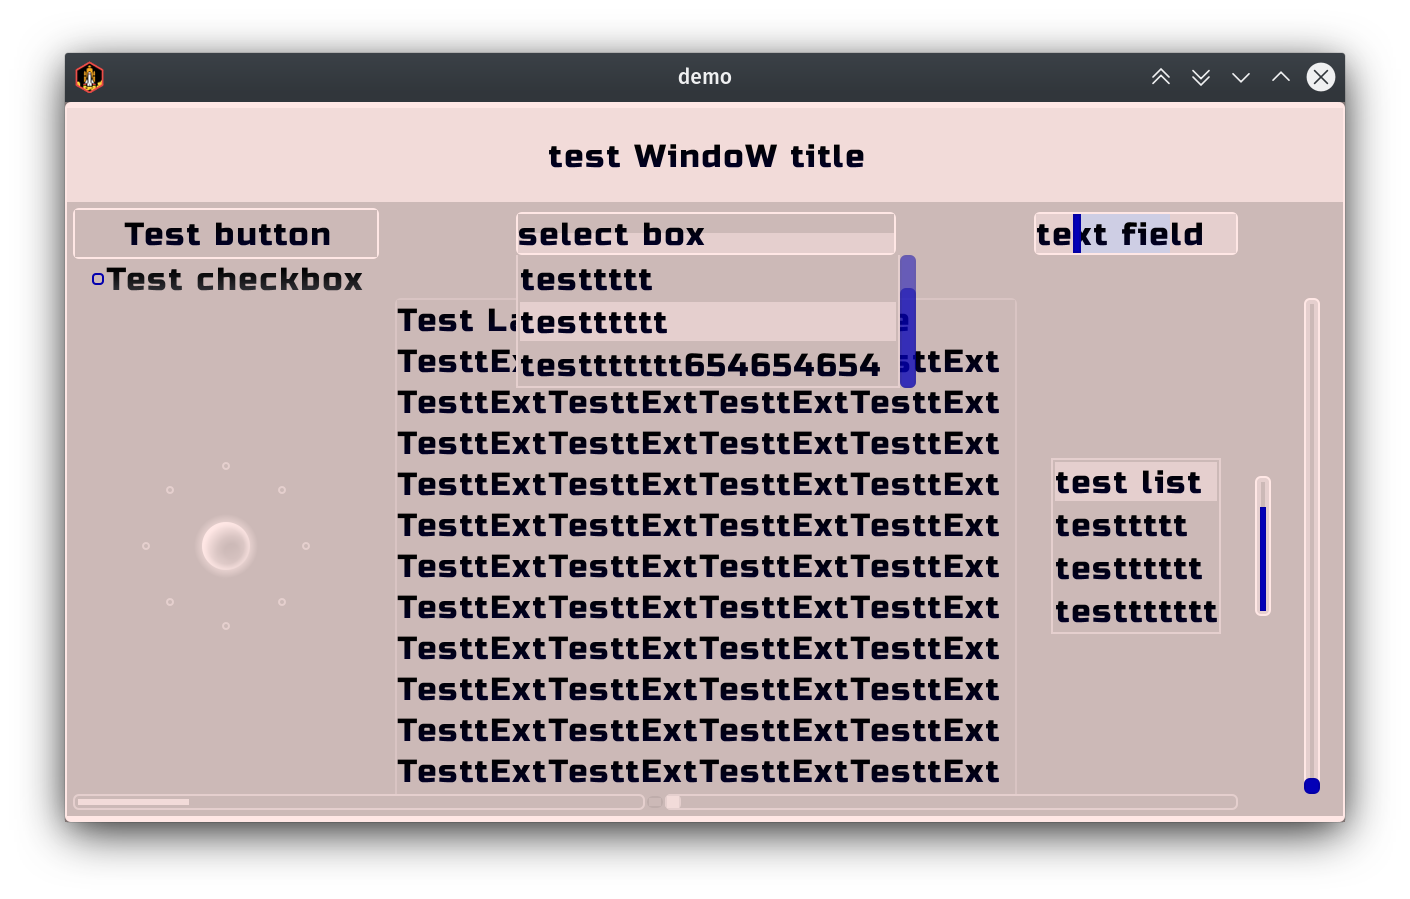
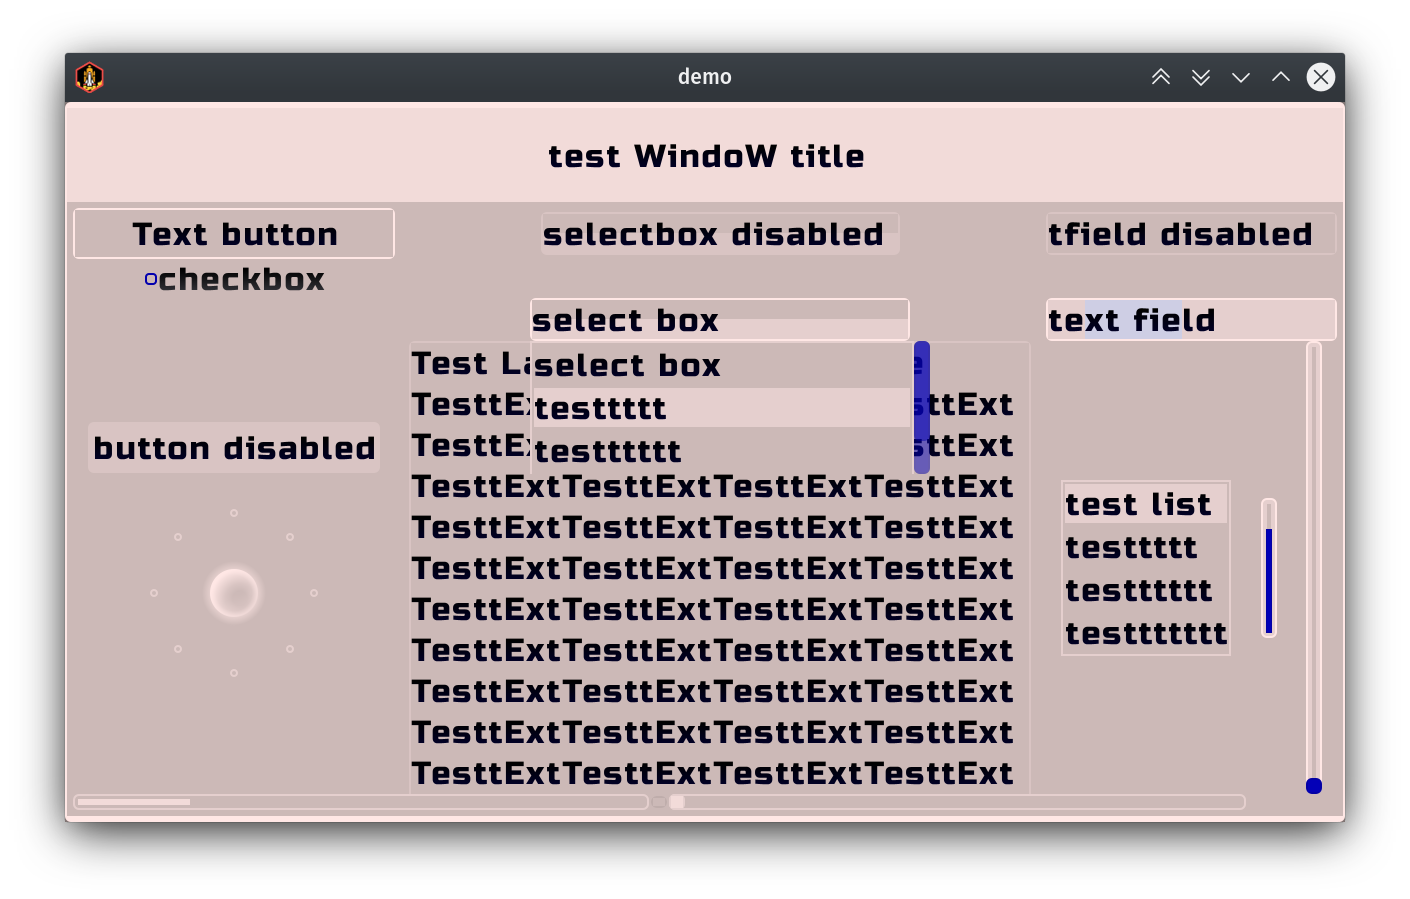
gum restyled

diff --git a/demo13x/core/src/main/kotlin/colorstepskin/StyleCreatorGum.kt b/demo13x/core/src/main/kotlin/colorstepskin/StyleCreatorGum.kt
@@ -31,31 +31,32 @@ fun createGumStyle(css:ColorStepSkin){
             buttonGum[hue].up = newDrawable(getDrawable("button-up"), hueL)
             buttonGum[hue].down = newDrawable(getDrawable("button-down"), hueL)
             buttonGum[hue].checked = newDrawable(getDrawable("button-checked"), hueL)
-            buttonGum[hue].disabled = newDrawable(getDrawable("button-disabled"), hueL)
+            buttonGum[hue].disabled = newDrawable(getDrawable("button-disabled"), hueD)
             
             tbuttonGum[hue].up = newDrawable(getDrawable("button-up"), hueL)
             tbuttonGum[hue].down = newDrawable(getDrawable("button-down"), hueL)
             tbuttonGum[hue].checked = newDrawable(getDrawable("button-checked"), hueL)
-            tbuttonGum[hue].disabled = newDrawable(getDrawable("button-disabled"), hueL)
+            tbuttonGum[hue].disabled = newDrawable(getDrawable("button-disabled"), hueD)
             tbuttonGum[hue].font = defaultFont
             tbuttonGum[hue].fontColor = hueL
+            tbuttonGum[hue].disabledFontColor = hueD
             
             checkGum[hue].checkboxOn = newDrawable(getDrawable("check-on"), hueL)
             checkGum[hue].checkboxOff = newDrawable(getDrawable("check-off"), hueL)
             checkGum[hue].checkboxOffDisabled = newDrawable(getDrawable("check-off"), hueD)
             checkGum[hue].checkboxOnDisabled = newDrawable(getDrawable("check-on"), hueD)
-//            checkGum[hue].disabled = newDrawable(getDrawable("check-disabled"), hueD)
             checkGum[hue].font = defaultFont
             checkGum[hue].fontColor = hueL
             checkGum[hue].disabledFontColor = hueD
             
             tfieldGum[hue].cursor = newDrawable(getDrawable("textfield-cursor"), hueL)
             tfieldGum[hue].selection = newDrawable(getDrawable("textfield-selection"), hueL)
-            tfieldGum[hue].background = newDrawable(getDrawable("textfield-background"), hueL)
-            tfieldGum[hue].disabledBackground = newDrawable(getDrawable("textfield-disabled"), hueL)
             tfieldGum[hue].focusedBackground = newDrawable(getDrawable("textfield-focused"), hueL)
+            tfieldGum[hue].background = newDrawable(getDrawable("textfield-background"), hueL)
+            tfieldGum[hue].disabledBackground = newDrawable(getDrawable("textfield-disabled"), hueD)
             tfieldGum[hue].font = defaultFont
             tfieldGum[hue].fontColor = hueL
+            tfieldGum[hue].disabledFontColor = hueD
             
             tareaGum[hue] = tfieldGum[hue]
             
@@ -78,9 +79,10 @@ fun createGumStyle(css:ColorStepSkin){
             selectGum[hue].listStyle = sls
             selectGum[hue].scrollStyle = scrollGum[hue]
             selectGum[hue].background = newDrawable(getDrawable("select-background"), hueL)
-            selectGum[hue].backgroundDisabled = newDrawable(getDrawable("select-disabled"), hueL)
+            selectGum[hue].backgroundDisabled = newDrawable(getDrawable("select-disabled"), hueD)
             selectGum[hue].font = defaultFont
             selectGum[hue].fontColor = hueL
+            selectGum[hue].disabledFontColor = hueD
             
             progressGum[hue].background = newDrawable(getDrawable("progress-background"), hueL)
             progressGum[hue].disabledBackground = newDrawable(getDrawable("progress-disabledbackground"), hueL)
@@ -128,7 +130,7 @@ fun createGumStyle(css:ColorStepSkin){
         for (hue in 0..100){
             val hueL = cbox.gum.colorPair(hue)[0]//light hue based
             val opoL = cbox.gum.colorPair(hue)[1]//light oposite
-//            val hueD = cbox.gum.colorPair(hue, true)[0]//dark hue based
+            val hueD = cbox.gum.colorPair(hue, true)[0]//dark hue based
 //            val opoD = cbox.gum.colorPair(hue, true)[1]//dark oposite
             
             scrollTextGum[hue].vScrollKnob = newDrawable(getDrawable("vscrollknob"), opoL)
@@ -150,31 +152,32 @@ fun createGumStyle(css:ColorStepSkin){
             buttonTextGum[hue].up = newDrawable(getDrawable("button-up"), opoL)
             buttonTextGum[hue].down = newDrawable(getDrawable("button-down"), opoL)
             buttonTextGum[hue].checked = newDrawable(getDrawable("button-checked"), opoL)
-            buttonTextGum[hue].disabled = newDrawable(getDrawable("button-disabled"), opoL)
+            buttonTextGum[hue].disabled = newDrawable(getDrawable("button-disabled"), hueD)
             
             tbuttonTextGum[hue].up = newDrawable(getDrawable("button-up"), opoL)
             tbuttonTextGum[hue].down = newDrawable(getDrawable("button-down"), opoL)
             tbuttonTextGum[hue].checked = newDrawable(getDrawable("button-checked"), opoL)
-            tbuttonTextGum[hue].disabled = newDrawable(getDrawable("button-disabled"), opoL)
+            tbuttonTextGum[hue].disabled = newDrawable(getDrawable("button-disabled"), hueD)
             tbuttonTextGum[hue].font = defaultFont
             tbuttonTextGum[hue].fontColor = hueL
+            tbuttonTextGum[hue].disabledFontColor = hueD
             
             checkTextGum[hue].checkboxOn = newDrawable(getDrawable("check-on"), hueL)
             checkTextGum[hue].checkboxOff = newDrawable(getDrawable("check-off"), hueL)
-            checkTextGum[hue].checkboxOffDisabled = newDrawable(getDrawable("check-off"), opoL)
-            checkTextGum[hue].checkboxOnDisabled = newDrawable(getDrawable("check-on"), opoL)
-//            checkTextGum[hue].disabled = newDrawable(getDrawable("check-disabled"), opoL)
+            checkTextGum[hue].checkboxOffDisabled = newDrawable(getDrawable("check-off"), hueD)
+            checkTextGum[hue].checkboxOnDisabled = newDrawable(getDrawable("check-on"), hueD)
             checkTextGum[hue].font = defaultFont
             checkTextGum[hue].fontColor = hueL
-            checkTextGum[hue].disabledFontColor = opoL
+            checkTextGum[hue].disabledFontColor = hueD
             
             tfieldTextGum[hue].cursor = newDrawable(getDrawable("textfield-cursor"), opoL)
             tfieldTextGum[hue].selection = newDrawable(getDrawable("textfield-selection"), opoL)
+            tfieldTextGum[hue].disabledBackground = newDrawable(getDrawable("textfield-disabled"), hueD)
             tfieldTextGum[hue].background = newDrawable(getDrawable("textfield-background"), opoL)
-            tfieldTextGum[hue].disabledBackground = newDrawable(getDrawable("textfield-disabled"), opoL)
             tfieldTextGum[hue].focusedBackground = newDrawable(getDrawable("textfield-focused"), opoL)
             tfieldTextGum[hue].font = defaultFont
             tfieldTextGum[hue].fontColor = hueL
+            tfieldTextGum[hue].disabledFontColor = hueD
             
             tareaTextGum[hue] = tfieldTextGum[hue]
             
@@ -197,9 +200,10 @@ fun createGumStyle(css:ColorStepSkin){
             selectTextGum[hue].listStyle = sls
             selectTextGum[hue].scrollStyle = scrollTextGum[hue]
             selectTextGum[hue].background = newDrawable(getDrawable("select-background"), opoL)
-            selectTextGum[hue].backgroundDisabled = newDrawable(getDrawable("select-disabled"), opoL)
+            selectTextGum[hue].backgroundDisabled = newDrawable(getDrawable("select-disabled"), hueD)
             selectTextGum[hue].font = defaultFont
             selectTextGum[hue].fontColor = hueL
+            selectTextGum[hue].disabledFontColor = hueD
             
             progressTextGum[hue].background = newDrawable(getDrawable("progress-background"), opoL)
             progressTextGum[hue].disabledBackground = newDrawable(getDrawable("progress-disabledbackground"), opoL)

diff --git a/demo13x/core/src/main/kotlin/colorstepskin/ColorStepSkin.kt b/demo13x/core/src/main/kotlin/colorstepskin/ColorStepSkin.kt
@@ -433,7 +433,7 @@ class ColorStepSkin : Skin() {
         createSnowStyle(this)
         
         /*default*/
-        defaultGum() /*short name binded to text sun scheme. Call other (declaired bottom) from this place , to make they default*/
+        defaultFonGum() /*short name binded to text sun scheme. Call other (declaired bottom) from this place , to make they default*/
         for (hue in 0..100){
             
             add("$hue", scroll[hue])
